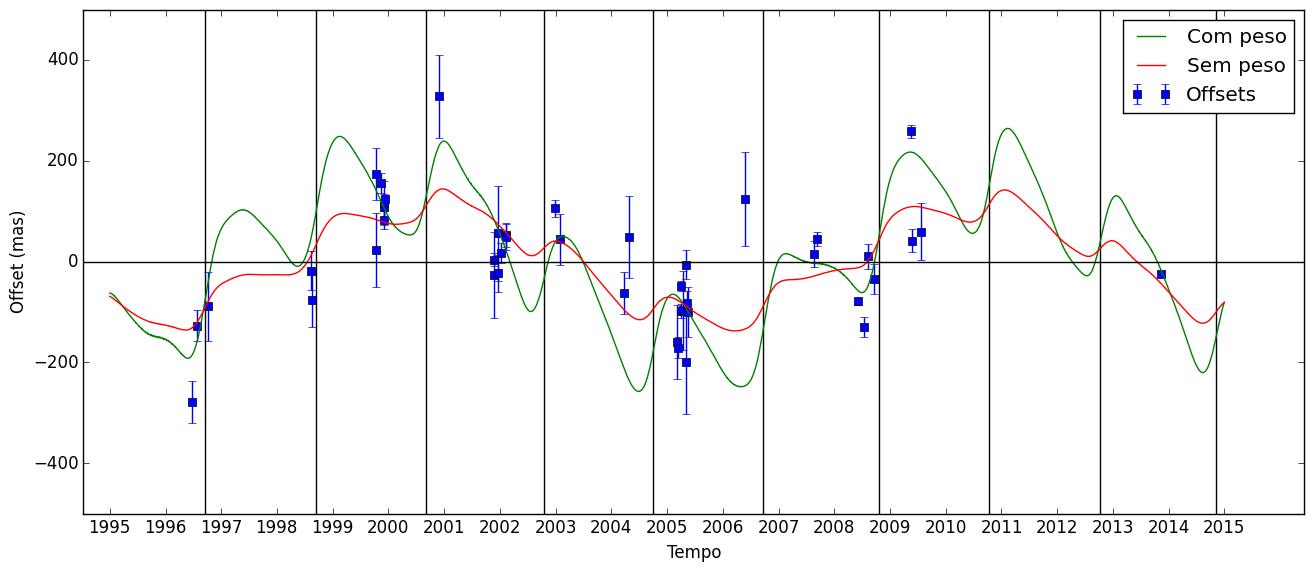
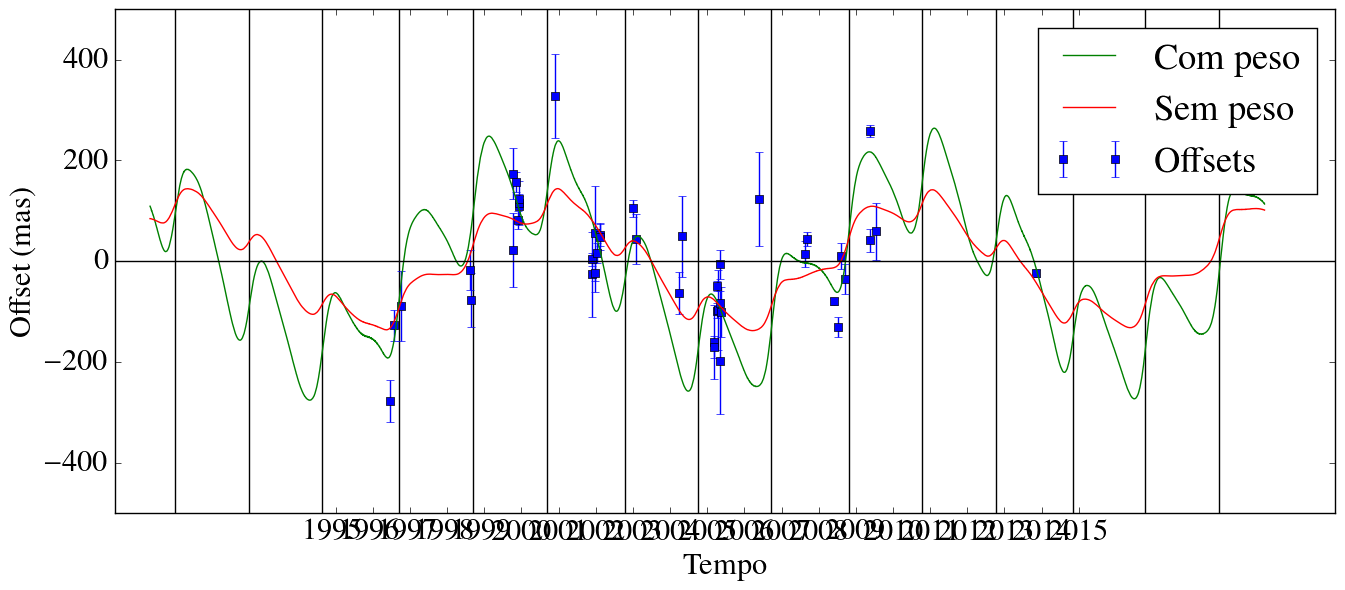
.

diff --git a/offset_irregular/Carme/teste.py b/offset_irregular/Carme/teste.py
@@ -6,6 +6,17 @@ import scipy.odr.odrpack as odrpack
 
 ######################################################################
 
+plt.rcParams['text.latex.preamble']=[r"\usepackage{txfonts}"]
+
+params = {'text.usetex' : True,
+          'font.size' : 22,
+          'font.family' : 'txfonts',
+          'text.latex.unicode': True,
+          }
+          
+plt.rcParams.update(params)
+sizel=18
+
 f = open('entrada.dat', 'r')
 arq = f.readlines()
 f.close()
@@ -134,12 +145,13 @@ plt.clf()
 plt.errorbar(y[3], z[1], yerr=z[3], fmt='s', label='Offsets')
 plt.ylim(-500,500)
 plt.xlim(0,360)
-plt.xlabel('Anomalia Verdadeira')
-plt.ylabel('Offset (mas)')
-plt.xticks([i for i in np.arange(0,361,30)], ['{}'.format(i) for i in np.arange(0,361,30)])
+plt.xlabel('Anomalia Verdadeira', fontsize=sizel)
+plt.ylabel('Offset (mas)', fontsize=sizel)
+plt.xticks([i for i in np.arange(0,361,30)], ['{}'.format(i) for i in np.arange(0,361,30)], fontsize=sizel)
+plt.yticks([i for i in np.arange(-400,500,200)], [i for i in np.arange(-400,500,200)], fontsize=sizel)
 plt.axhline(0, color='black')
 fig =plt.gcf()
-fig.set_size_inches((40.0*u.cm).to(u.imperial.inch).value,(16.0*u.cm).to(u.imperial.inch).value)
+fig.set_size_inches((17.6*u.cm).to(u.imperial.inch).value,(10.0*u.cm).to(u.imperial.inch).value)
 fig.savefig('DEC_anom.png',dpi=100, bbox_inches='tight')
 plt.clf()
 
@@ -201,7 +213,7 @@ plt.ylabel('Offset (mas)')
 plt.xticks([i for i in np.arange(0,361,30)], ['{}'.format(i) for i in np.arange(0,361,30)])
 plt.axhline(0, color='black')
 fig =plt.gcf()
-fig.set_size_inches((40.0*u.cm).to(u.imperial.inch).value,(16.0*u.cm).to(u.imperial.inch).value)
+fig.set_size_inches((17.6*u.cm).to(u.imperial.inch).value,(10.0*u.cm).to(u.imperial.inch).value)
 fig.savefig('RA_anom.png',dpi=100, bbox_inches='tight')
 
 #plt.savefig('RA.png', figsize(10,8))
